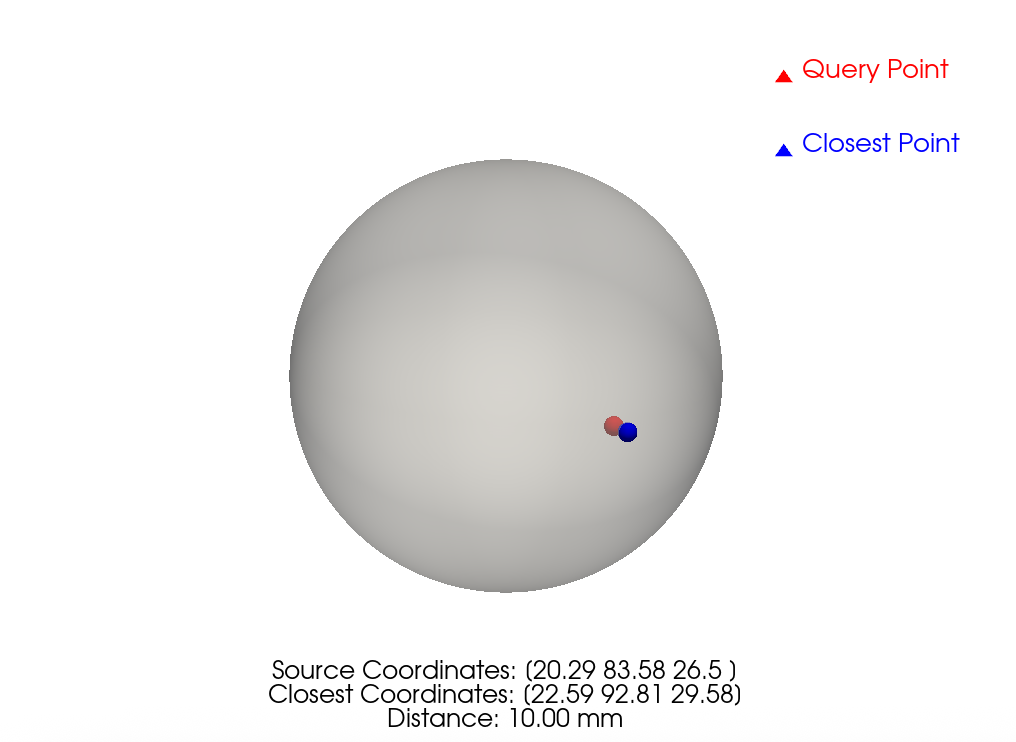
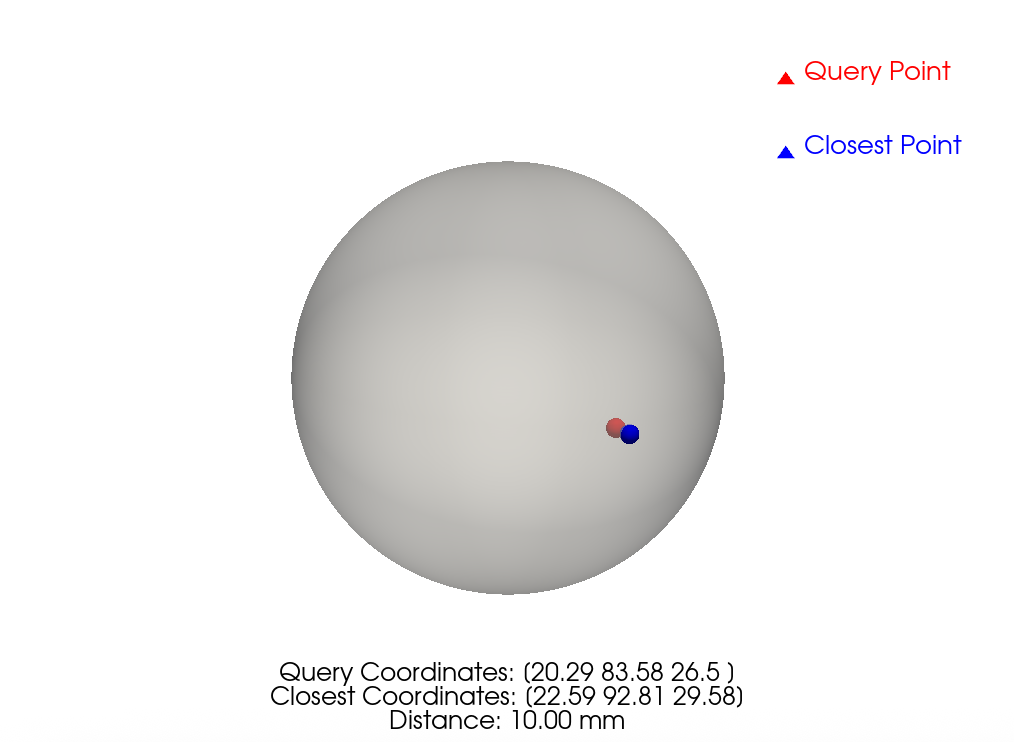
avoid confusion, changed source to query

diff --git a/main.py b/main.py
@@ -11,7 +11,7 @@ def main(
     scalp_fn: str, 
     query_point: tuple | list | np.ndarray, 
     method = 'closest_point_pv',
-    print_source_coord: bool = True,
+    print_query_coord: bool = True,
     print_closest_coord: bool = True,
     print_distance: bool = True,
     demo: bool = False,
@@ -34,8 +34,8 @@ def main(
     p.add_points(query_point, color='red', point_size=20, render_points_as_spheres=True, label='Query Point')
     p.add_points(closest_point, color='blue', point_size=20, render_points_as_spheres=True, label='Closest Point')
     text = ""
-    if print_source_coord:
-        text += f"Source Coordinates: {np.round(query_point, 2)}\n"
+    if print_query_coord:
+        text += f"Query Coordinates: {np.round(query_point, 2)}\n"
     if print_closest_coord:
         text += f"Closest Coordinates: {np.round(closest_point, 2)}\n"
     if print_distance:
@@ -110,7 +110,7 @@ if __name__ == "__main__":
     parser.add_argument("--scalp_fn", "-s", type=str, help="Path to the scalp VTK file.")
     parser.add_argument("--query_point", "-q", type=float, nargs=3, help="Query point coordinates.")
     parser.add_argument("--method", "-m", type=str, default="closest_point_pv", help="Method to use for finding the closest point. Options: 'closest_point_pv', 'kd_tree_scipy', 'reference'. Default is 'closest_point_pv'.")
-    parser.add_argument("--print_source_coord", "-ps", action='store_true', default=True, help="Print the source coordinates. Default is True.")
+    parser.add_argument("--print_query_coord", "-pq", action='store_true', default=True, help="Print the query coordinates. Default is True.")
     parser.add_argument("--print_closest_coord", "-pc", action='store_true', default=True, help="Print the closest coordinates. Default is True.")
     parser.add_argument("--print_distance", "-pd", action='store_true', default=True, help="Print the distance to the closest point. Default is True.")
     parser.add_argument("--benchmark", "-b", action='store_true', help="Run benchmark tests.")
@@ -128,7 +128,7 @@ if __name__ == "__main__":
             scalp_fn=args.scalp_fn, 
             query_point=args.query_point, 
             method=args.method, 
-            print_source_coord=args.print_source_coord, 
+            print_query_coord=args.print_query_coord, 
             print_closest_coord=args.print_closest_coord, 
             print_distance=args.print_distance, 
         )

diff --git a/README.md b/README.md
@@ -26,8 +26,8 @@ options:
                         Query point coordinates.
   --method METHOD, -m METHOD
                         Method to use for finding the closest point. Options: 'closest_point_pv', 'kd_tree_scipy', 'reference'. Default is 'closest_point_pv'.
-  --print_source_coord, -ps
-                        Print the source coordinates. Default is True.
+  --print_query_coord, -pq
+                        Print the query coordinates. Default is True.
   --print_closest_coord, -pc
                         Print the closest coordinates. Default is True.
   --print_distance, -pd
@@ -39,7 +39,7 @@ options:
 For example, for a query point at coordinates `(-48.97, 11.73, 56.77)` and scalp surface saved in `whole_skull.vtk`, you can run:
 
 ```bash
-python ./main.py -s whole_skull.vtk -q -48.97 11.73 56.77 -m closest_point_pv -ps -pc -pd
+python ./main.py -s whole_skull.vtk -q -48.97 11.73 56.77 -m closest_point_pv -pq -pc -pd
 ```
 
 To compare the performance of different methods, you can run:
